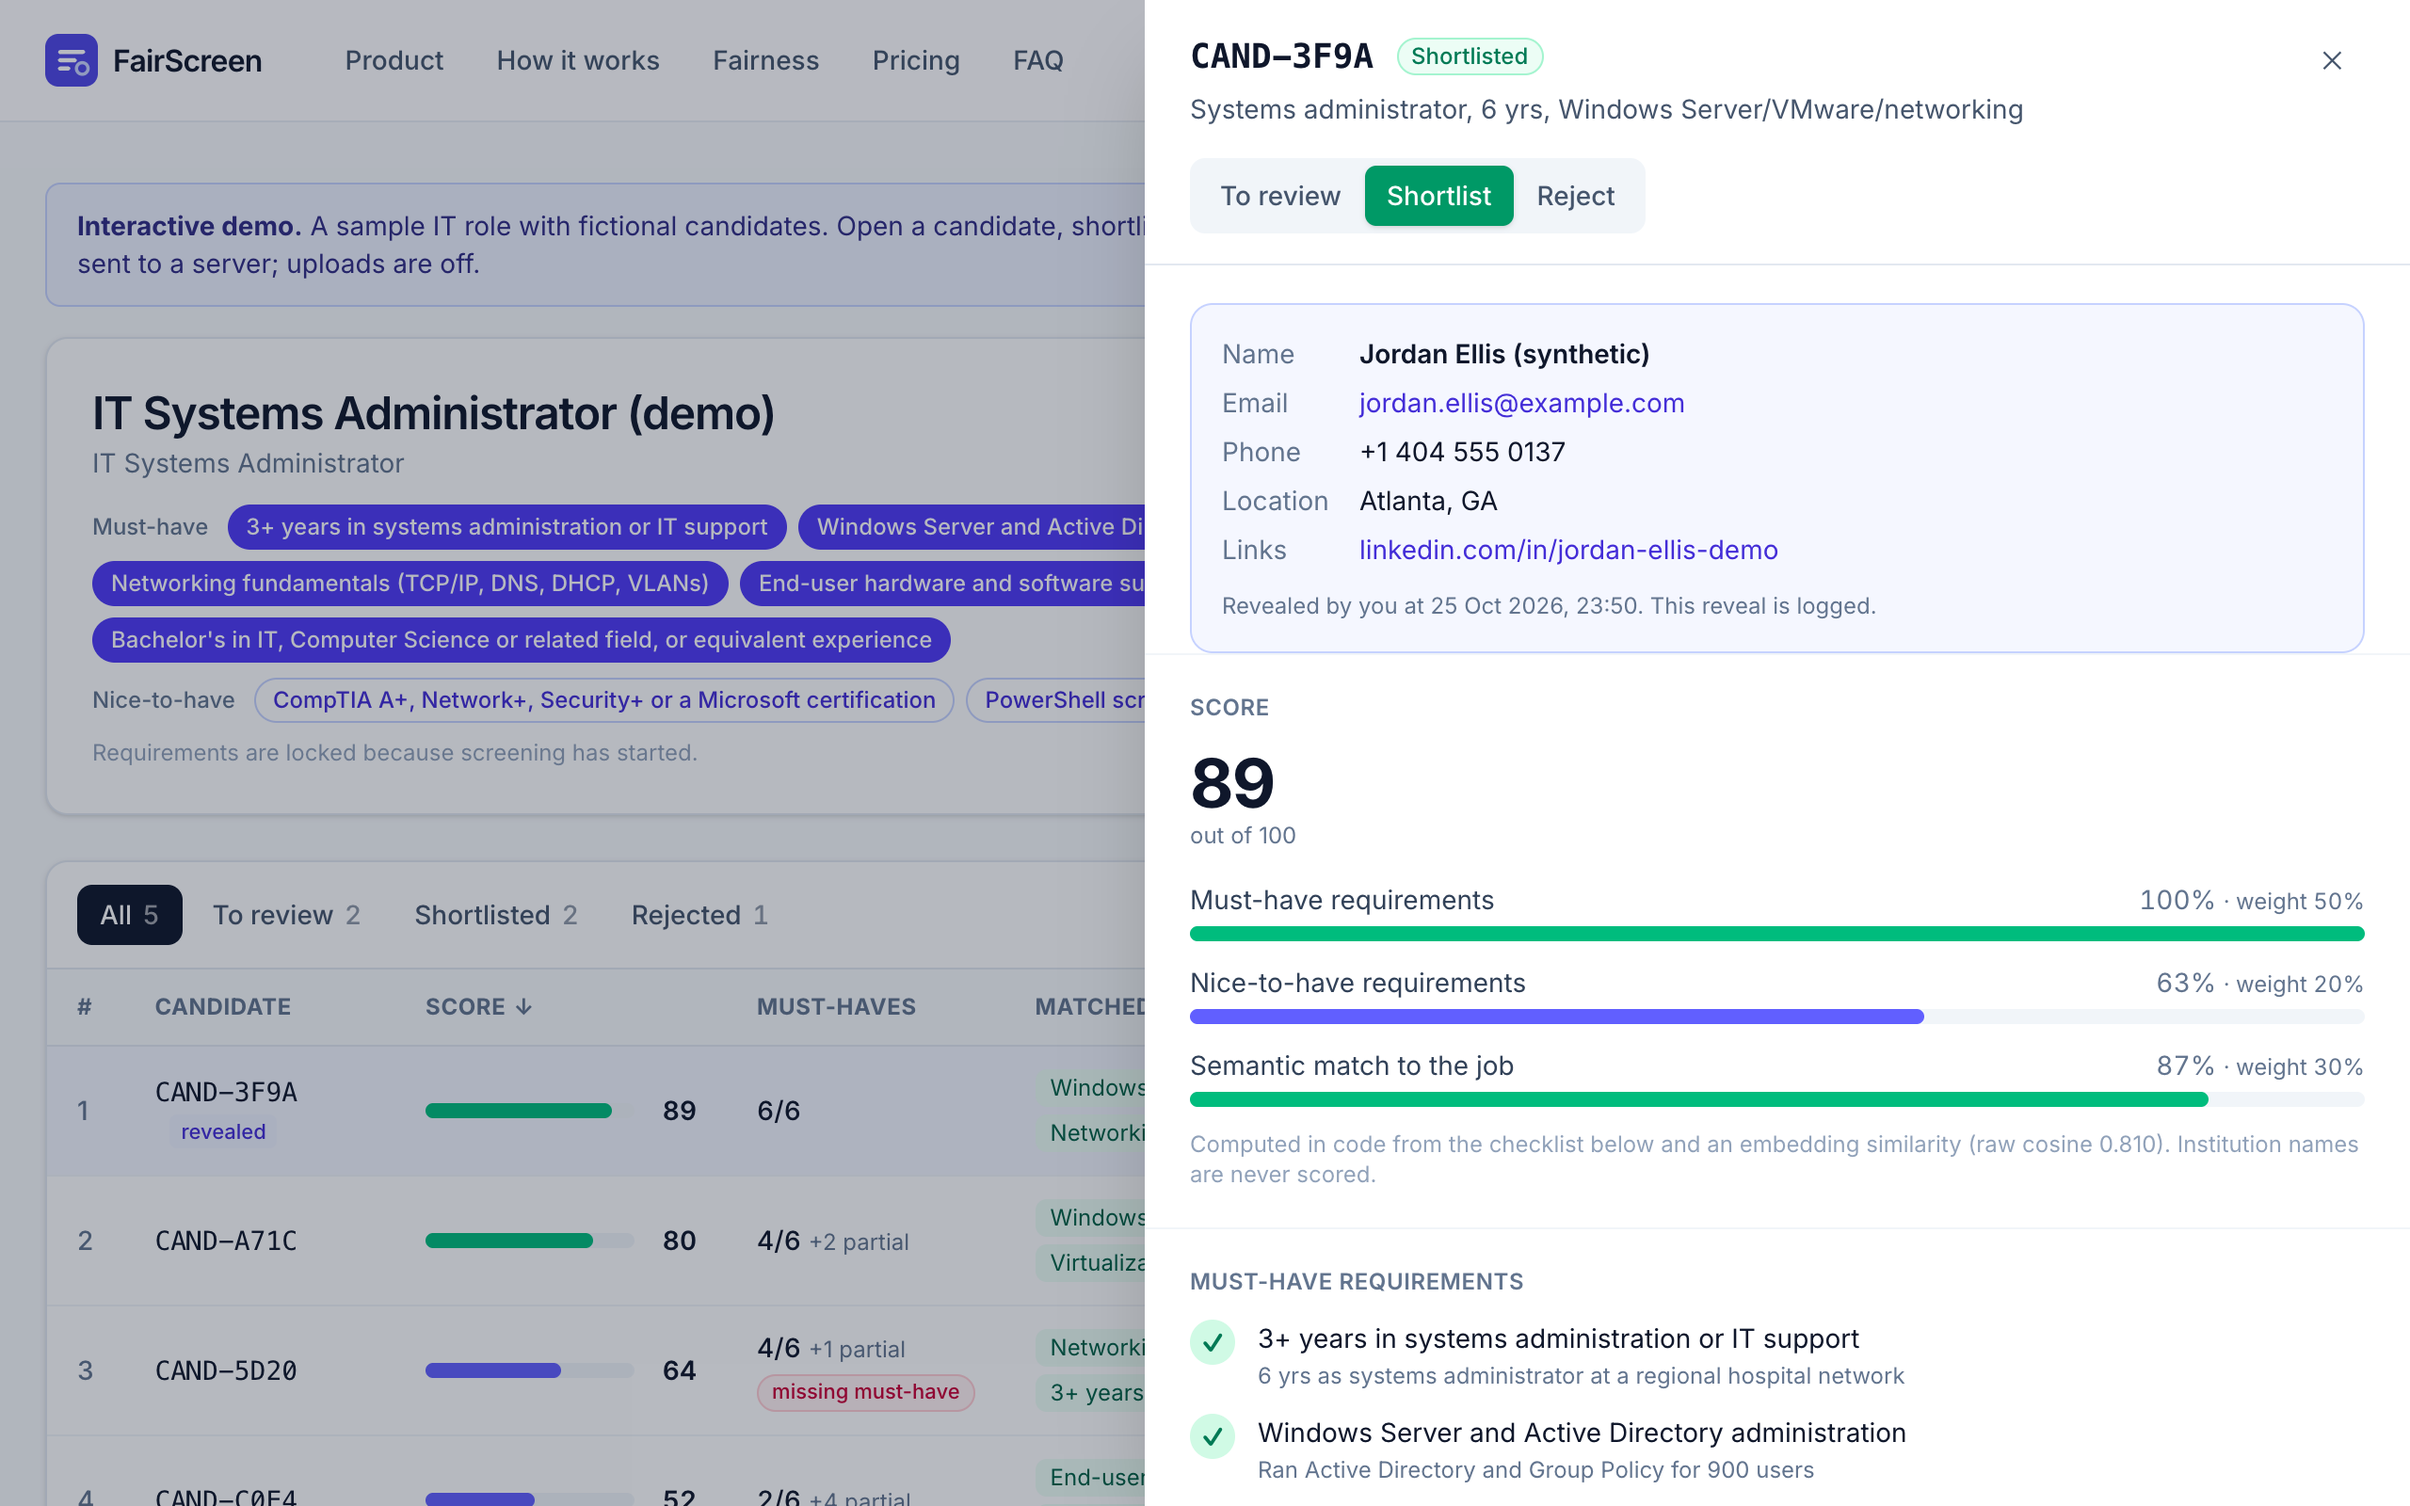
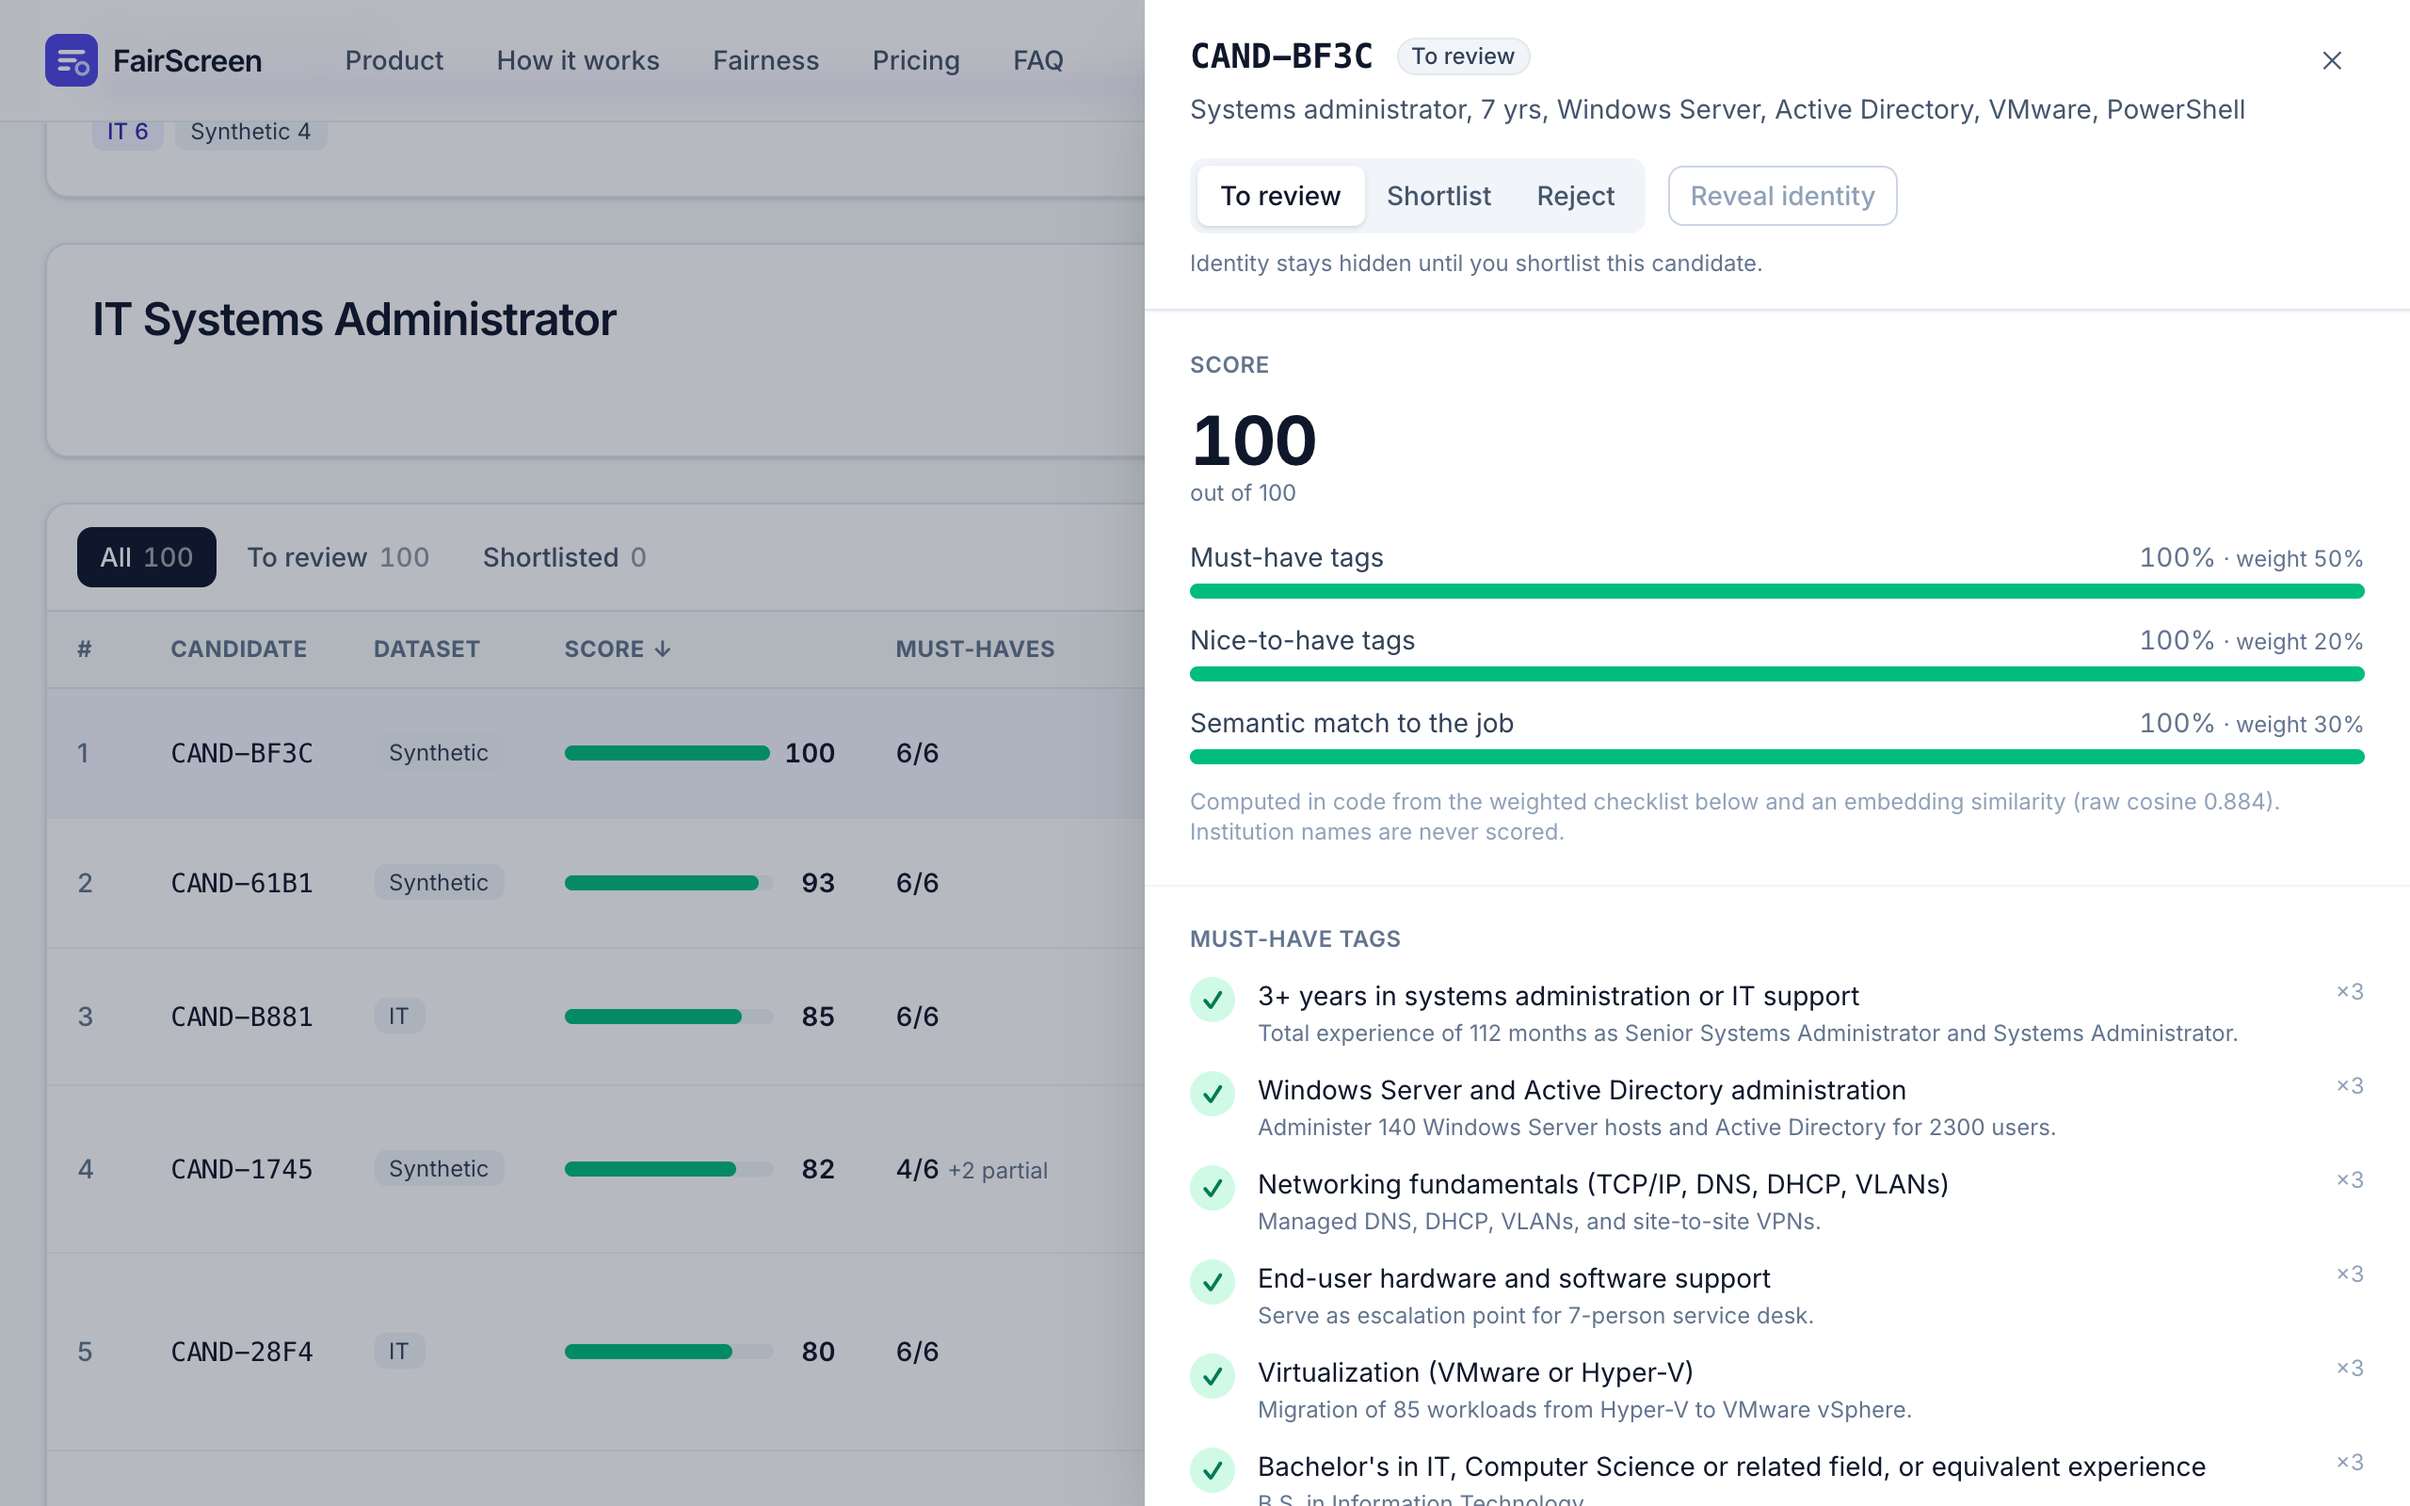
Retake README screenshots on the real demo pool

diff --git a/README.md b/README.md
@@ -11,9 +11,11 @@ The site deploys to GitHub Pages on every push to `main`. Until the backend is c
 
 ![Landing page](docs/screenshot-landing.png)
 
+![Live demo: pick a role, tune tags and their 1–5 weights](docs/screenshot-tags.png)
+
 | Ranked blind table | Candidate drawer |
 |---|---|
-| ![Ranked blind shortlist](docs/screenshot-table.png) | ![Candidate drawer with checklist and reveal gate](docs/screenshot-drawer.png) |
+| ![Ranked blind shortlist](docs/screenshot-table.png) | ![Candidate drawer with weighted checklist and reveal gate](docs/screenshot-drawer.png) |
 
 *(Screenshots: the live demo on the real 100-resume pool.)*
 
